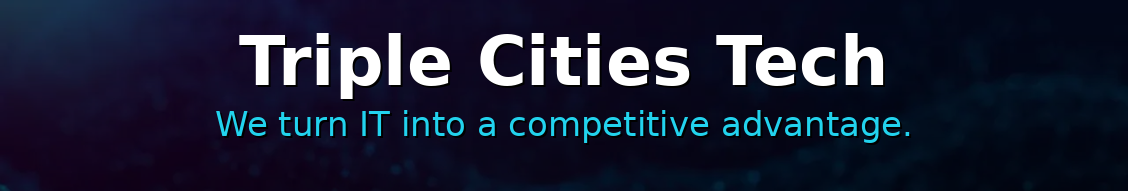
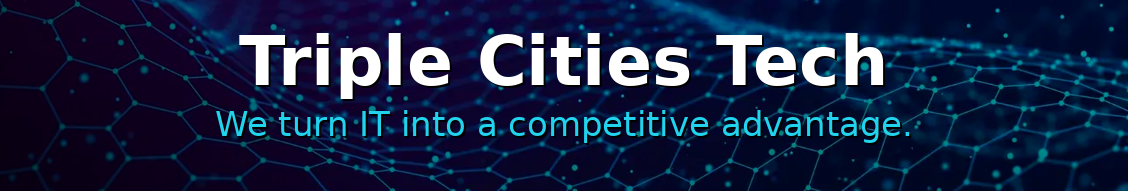
Re-render LinkedIn cover with dense hex mesh from hero bottom band
- crop_cover: add y_bias param; cover now pulls from y=0.85 of the
  source (the hex-dense lower band) instead of the sparse upper sky
- build_cover: upscale source 2x for the retina cover so the hex stays
  natural-density at 2256x382
- boost colour saturation +25% and contrast +10% so the cyan mesh pops
- reduce overall darken from 45% to 22%; replace with a left-side
  horizontal gradient under the LinkedIn logo overlap so the brand
  mark stays readable without flattening the whole texture

diff --git a/linkedin-assets/generate.py b/linkedin-assets/generate.py
@@ -1,6 +1,6 @@
 #!/usr/bin/env python3
 """Generate LinkedIn company-page assets matching the Triple Cities Tech website hero."""
-from PIL import Image, ImageDraw, ImageFont, ImageFilter, ImageChops
+from PIL import Image, ImageDraw, ImageFont, ImageFilter, ImageChops, ImageEnhance
 import os
 
 OUT_DIR = "/home/user/staging/linkedin-assets"
@@ -18,23 +18,43 @@ NAVY     = (8, 14, 38)      # deep navy seen in hero
 os.makedirs(OUT_DIR, exist_ok=True)
 
 
-def crop_cover(img: Image.Image, target_w: int, target_h: int) -> Image.Image:
-    """Cover-crop an image to fill target dimensions (like CSS object-fit: cover)."""
+def crop_cover(img: Image.Image, target_w: int, target_h: int, y_bias: float = 0.20) -> Image.Image:
+    """Cover-crop an image to fill target dimensions (like CSS object-fit: cover).
+
+    y_bias=0.0 keeps the top, 1.0 keeps the bottom. The hero's hex mesh is
+    densest in the lower portion of the source, so use y_bias ≈ 0.85 for the
+    wide cover to pull that texture into the frame.
+    """
     src_w, src_h = img.size
     src_ratio = src_w / src_h
     tgt_ratio = target_w / target_h
     if src_ratio > tgt_ratio:
-        # source is wider — crop sides
+        # source is wider relative to target — crop sides
         new_w = int(src_h * tgt_ratio)
         x = (src_w - new_w) // 2
         img = img.crop((x, 0, x + new_w, src_h))
     else:
-        # source is taller — crop top/bottom (use object-[center_20%] bias like hero)
+        # source is taller relative to target — crop top/bottom with y_bias
         new_h = int(src_w / tgt_ratio)
-        y = int((src_h - new_h) * 0.20)
+        y = int((src_h - new_h) * y_bias)
         y = max(0, min(y, src_h - new_h))
         img = img.crop((0, y, src_w, y + new_h))
     return img.resize((target_w, target_h), Image.LANCZOS)
+
+
+def horizontal_gradient(size, left_alpha=0.55, right_alpha=0.0):
+    """Black gradient overlay — darker on the left, transparent on the right.
+    Used under the LinkedIn logo overlap zone to keep text readable."""
+    w, h = size
+    grad = Image.new("L", (w, 1))
+    for x in range(w):
+        t = x / max(1, w - 1)
+        alpha = left_alpha + (right_alpha - left_alpha) * t
+        grad.putpixel((x, 0), int(255 * alpha))
+    grad = grad.resize(size)
+    overlay = Image.new("RGBA", size, (0, 0, 0, 0))
+    overlay.putalpha(grad)
+    return overlay
 
 
 def load_logo_transparent(target_size: int, tint=None) -> Image.Image:
@@ -169,10 +189,34 @@ def build_profile(size: int, filename: str):
 # ---------------------------------------------------------------------------
 def build_cover(w: int, h: int, filename: str):
     bg_src = Image.open(HERO_BG).convert("RGBA")
-    bg = crop_cover(bg_src, w, h)
-    bg = darken(bg, 0.45)
-    # Bottom fade to match hero's gradient
-    bg = Image.alpha_composite(bg, vignette_gradient((w, h), top=0.0, bottom=0.35))
+
+    # For the 2x cover, upscale the source first so the cropped strip still
+    # has the natural hex density at output resolution (Lanczos ≈ 1.76x).
+    if w > 1500:
+        new_w = int(bg_src.width * 2)
+        new_h = int(bg_src.height * 2)
+        bg_src = bg_src.resize((new_w, new_h), Image.LANCZOS)
+
+    # Pull the crop from the LOWER portion of the source — that's where the
+    # hexagonal mesh is densest. The original `object-[center_20%]` bias used
+    # on the website hero is wrong for a 5.9:1 strip; it lands on the sparse
+    # top sky. y_bias≈0.85 lands on the dense hex band instead.
+    bg = crop_cover(bg_src, w, h, y_bias=0.85)
+
+    # Boost the blue/cyan saturation so the hex pattern reads more vividly.
+    bg = ImageEnhance.Color(bg.convert("RGB")).enhance(1.25).convert("RGBA")
+    bg = ImageEnhance.Contrast(bg.convert("RGB")).enhance(1.10).convert("RGBA")
+
+    # Lighter overall darken — keeps the hex mesh prominent.
+    bg = darken(bg, 0.22)
+
+    # Left-side dark gradient under the LinkedIn logo overlap (roughly the
+    # left 18% of the cover) so the brand mark still reads on busy texture.
+    left_grad = horizontal_gradient((int(w * 0.35), h), left_alpha=0.55, right_alpha=0.0)
+    bg.paste(left_grad, (0, 0), left_grad)
+
+    # Subtle bottom fade to match the hero's gradient transition.
+    bg = Image.alpha_composite(bg, vignette_gradient((w, h), top=0.0, bottom=0.25))
 
     draw = ImageDraw.Draw(bg)
 